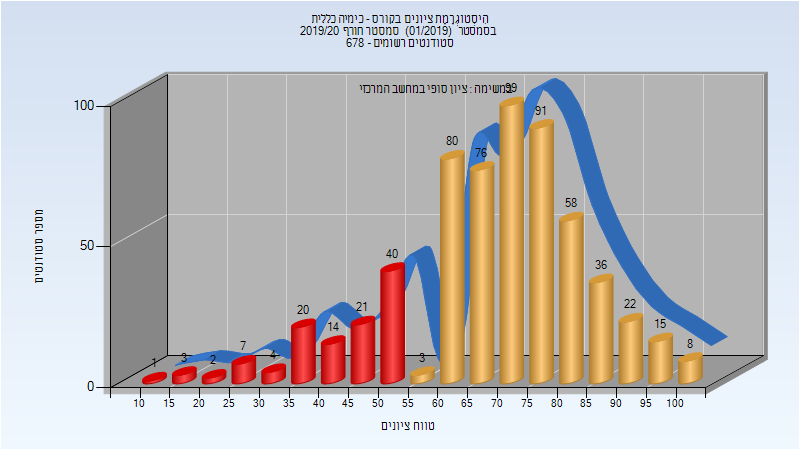
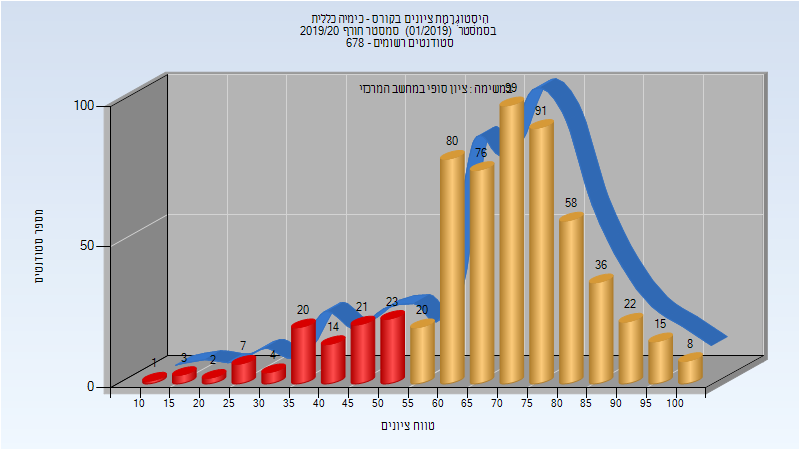
Deploy michael-maltsev/technion-histograms to github.com/michael-maltsev/technion-histograms.git:gh-pages

Changed region(s): [[0.4688, 0.5289, 0.5938, 0.84], [0.5938, 0.28, 0.625, 0.3111]]

diff --git a/125001/index.html b/125001/index.html
@@ -2175,11 +2175,11 @@
 <tbody>
 <tr>
 <td>600</td>
-<td>488/112</td>
-<td>81</td>
+<td>505/95</td>
+<td>84</td>
 <td>10</td>
 <td>100</td>
-<td>68.393</td>
+<td>68.598</td>
 <td>70</td>
 </tr>
 </tbody>

diff --git a/125001/README.md b/125001/README.md
@@ -673,7 +673,7 @@
 
 | סטודנטים | עברו/נכשלו | אחוז עוברים | ציון מינימלי | ציון מקסימלי | ממוצע | חציון |
 | ---- | ---- | ---- | ---- | ---- | ---- | ---- |
-| 600 | 488/112 | 81 | 10 | 100 | 68.393 | 70 |
+| 600 | 505/95 | 84 | 10 | 100 | 68.598 | 70 |
 
 ## אביב 2020
 
